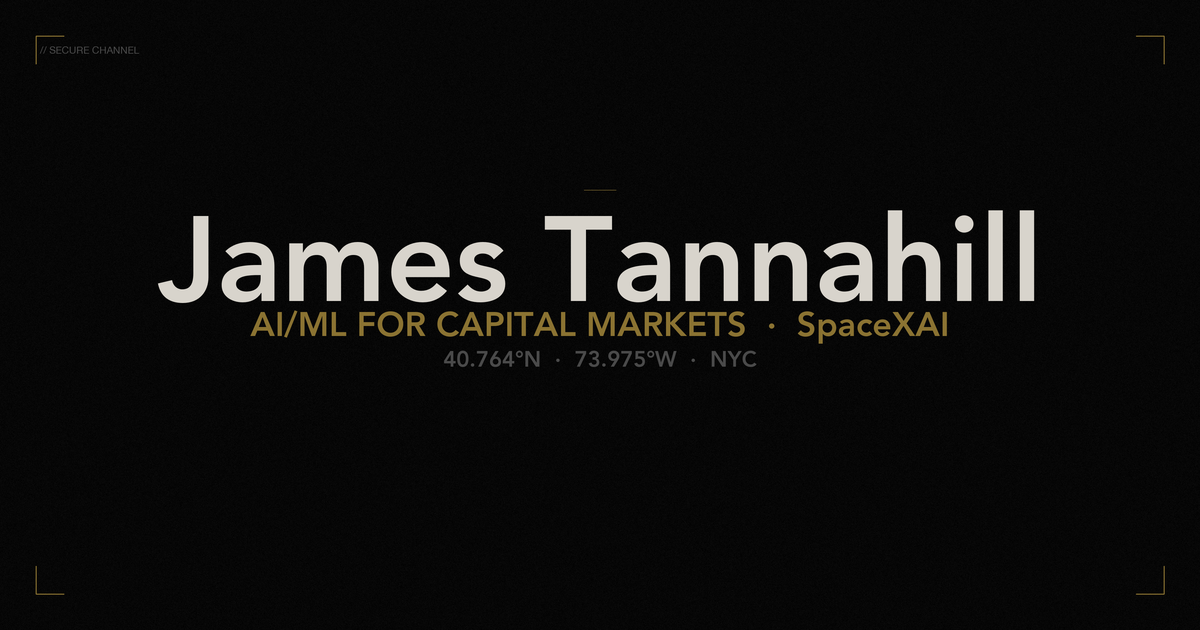
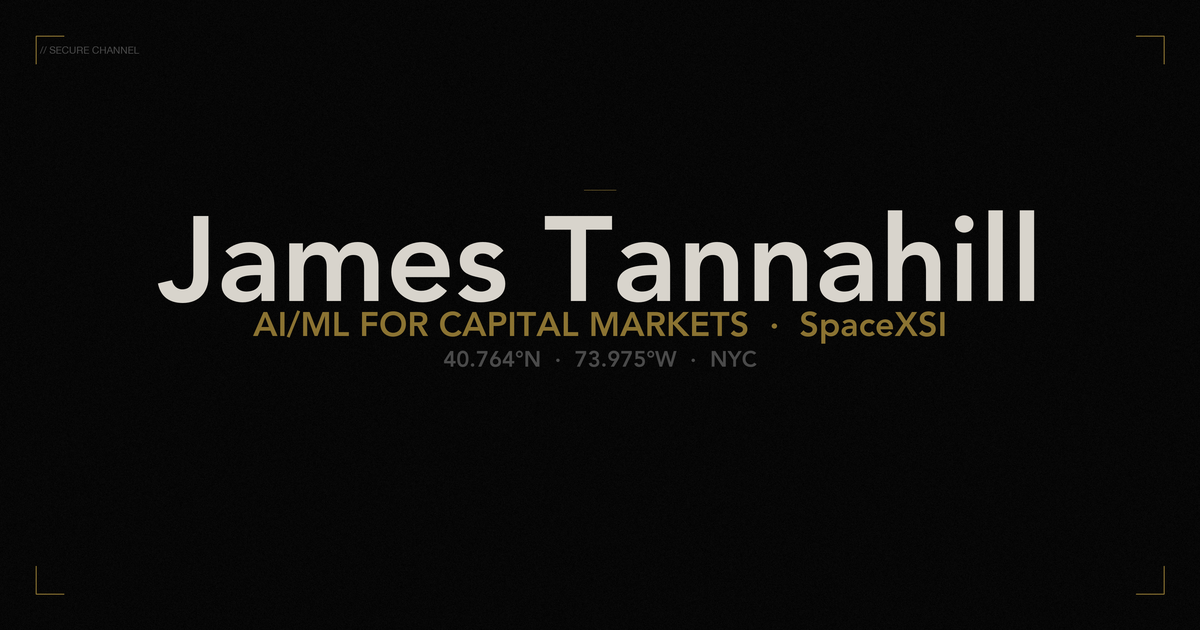
Employer name: SpaceXAI -> SpaceXSI on map + contact
Contact card (index/add/card.js MECARD/vCard/llms/manifest), map page,
regenerated OG image (og-image.png?v=3), sw CACHE jt-v7. Deployed to
both buckets, CloudFront invalidated. Wallet pass (pass-build/) not
changed yet: needs re-sign + device push.

Changed region(s): [[0.2158, 0.4825, 0.8017, 0.5429]]

diff --git a/index.html b/index.html
@@ -3,10 +3,10 @@
 <head>
   <meta charset="UTF-8">
   <meta name="viewport" content="width=device-width, initial-scale=1.0">
-  <title>James Tannahill | AI/ML for Capital Markets · SpaceXAI</title>
-  <meta name="description" content="James Tannahill. AI/ML for Capital Markets at SpaceXAI. Private Equity, Healthcare Intelligence, AI Infrastructure.">
-  <meta property="og:title" content="James Tannahill | AI/ML for Capital Markets · SpaceXAI">
-  <meta property="og:description" content="AI/ML for Capital Markets at SpaceXAI. Private Equity. Healthcare Intelligence. AI Infrastructure.">
+  <title>James Tannahill | AI/ML for Capital Markets · SpaceXSI</title>
+  <meta name="description" content="James Tannahill. AI/ML for Capital Markets at SpaceXSI. Private Equity, Healthcare Intelligence, AI Infrastructure.">
+  <meta property="og:title" content="James Tannahill | AI/ML for Capital Markets · SpaceXSI">
+  <meta property="og:description" content="AI/ML for Capital Markets at SpaceXSI. Private Equity. Healthcare Intelligence. AI Infrastructure.">
   <meta property="og:type" content="website">
   <meta property="og:url" content="https://contact.jamestannahill.com/">
   <meta property="og:image" content="https://contact.jamestannahill.com/og-image.png">
@@ -15,8 +15,8 @@
   <meta property="og:site_name" content="James Tannahill">
   <meta name="twitter:card" content="summary_large_image">
   <meta name="twitter:image" content="https://contact.jamestannahill.com/og-image.png">
-  <meta name="twitter:title" content="James Tannahill | AI/ML for Capital Markets · SpaceXAI">
-  <meta name="twitter:description" content="AI/ML for Capital Markets at SpaceXAI. Private Equity. Healthcare Intelligence. AI Infrastructure.">
+  <meta name="twitter:title" content="James Tannahill | AI/ML for Capital Markets · SpaceXSI">
+  <meta name="twitter:description" content="AI/ML for Capital Markets at SpaceXSI. Private Equity. Healthcare Intelligence. AI Infrastructure.">
   <meta name="robots" content="index, follow">
   <meta name="author" content="James Tannahill">
   <link rel="icon" type="image/svg+xml" href="/favicon.svg">
@@ -40,7 +40,7 @@
     "jobTitle": "AI/ML for Capital Markets",
     "worksFor": {
       "@type": "Organization",
-      "name": "SpaceXAI"
+      "name": "SpaceXSI"
     },
     "url": "https://www.jamestannahill.com",
     "sameAs": [
@@ -730,7 +730,7 @@
     <header class="header">
       <div class="header-tag">// secure channel</div>
       <h1 class="header-name">James Tannahill</h1>
-      <div class="header-title">AI/ML for Capital Markets &middot; SpaceXAI</div>
+      <div class="header-title">AI/ML for Capital Markets &middot; SpaceXSI</div>
       <a href="https://map.jamestannahill.com" class="header-coords">40.764&deg;N &middot; 73.975&deg;W &middot; NYC</a>
     </header>
 
@@ -1054,7 +1054,7 @@
 
   <script>
     // MECARD for QR (compact, universal iOS+Android)
-    const MECARD = 'MECARD:N:Tannahill,James;ORG:SpaceXAI;TITLE:AI/ML for Capital Markets;EMAIL:contact@jamestannahill.com;URL:https://www.jamestannahill.com;ADR:W 57th Street;NOTE:Signal preferred;;';
+    const MECARD = 'MECARD:N:Tannahill,James;ORG:SpaceXSI;TITLE:AI/ML for Capital Markets;EMAIL:contact@jamestannahill.com;URL:https://www.jamestannahill.com;ADR:W 57th Street;NOTE:Signal preferred;;';
 
     function revealSignal(el) {
       const rv = el.querySelector('.redacted-value');
@@ -1087,7 +1087,7 @@
         'N:Tannahill;James;;;',
         'FN:James Tannahill',
         'TITLE:AI/ML for Capital Markets',
-        'ORG:SpaceXAI',
+        'ORG:SpaceXSI',
         'EMAIL;TYPE=INTERNET:contact@jamestannahill.com',
         'URL:https://www.jamestannahill.com',
         'URL:https://hmuapi.com/jamestannahill',
@@ -1100,7 +1100,7 @@
         'URL:https://contact.jamestannahill.com',
         'URL:https://map.jamestannahill.com',
         'ADR;TYPE=WORK:;;W 57th Street;;;',
-        'NOTE:AI/ML for Capital Markets at SpaceXAI. President\\, Plocamium Holdings. Signal preferred.',
+        'NOTE:AI/ML for Capital Markets at SpaceXSI. President\\, Plocamium Holdings. Signal preferred.',
         'END:VCARD'
       ].join('\r\n');
 

diff --git a/contact.html b/contact.html
@@ -3,22 +3,22 @@
 <head>
   <meta charset="UTF-8">
   <meta name="viewport" content="width=device-width, initial-scale=1.0, viewport-fit=cover">
-  <title>James Tannahill | AI/ML for Capital Markets at SpaceXAI</title>
-  <meta name="description" content="James Tannahill. AI/ML for Capital Markets at SpaceXAI. Private Equity, Healthcare Intelligence, AI Infrastructure.">
-  <meta property="og:title" content="James Tannahill | AI/ML for Capital Markets at SpaceXAI">
-  <meta property="og:description" content="AI/ML for Capital Markets at SpaceXAI. Private Equity. Healthcare Intelligence. AI Infrastructure.">
+  <title>James Tannahill | AI/ML for Capital Markets at SpaceXSI</title>
+  <meta name="description" content="James Tannahill. AI/ML for Capital Markets at SpaceXSI. Private Equity, Healthcare Intelligence, AI Infrastructure.">
+  <meta property="og:title" content="James Tannahill | AI/ML for Capital Markets at SpaceXSI">
+  <meta property="og:description" content="AI/ML for Capital Markets at SpaceXSI. Private Equity. Healthcare Intelligence. AI Infrastructure.">
   <meta property="og:type" content="website">
   <meta property="og:url" content="https://contact.jamestannahill.com/">
-  <meta property="og:image" content="https://contact.jamestannahill.com/og-image.png?v=2">
+  <meta property="og:image" content="https://contact.jamestannahill.com/og-image.png?v=3">
   <meta property="og:image:width" content="1200">
   <meta property="og:image:height" content="630">
-  <meta property="og:image:alt" content="James Tannahill, AI/ML for Capital Markets at SpaceXAI">
+  <meta property="og:image:alt" content="James Tannahill, AI/ML for Capital Markets at SpaceXSI">
   <meta property="og:site_name" content="James Tannahill">
   <meta name="twitter:card" content="summary_large_image">
-  <meta name="twitter:image" content="https://contact.jamestannahill.com/og-image.png?v=2">
-  <meta name="twitter:image:alt" content="James Tannahill, AI/ML for Capital Markets at SpaceXAI">
-  <meta name="twitter:title" content="James Tannahill | AI/ML for Capital Markets at SpaceXAI">
-  <meta name="twitter:description" content="AI/ML for Capital Markets at SpaceXAI. Private Equity. Healthcare Intelligence. AI Infrastructure.">
+  <meta name="twitter:image" content="https://contact.jamestannahill.com/og-image.png?v=3">
+  <meta name="twitter:image:alt" content="James Tannahill, AI/ML for Capital Markets at SpaceXSI">
+  <meta name="twitter:title" content="James Tannahill | AI/ML for Capital Markets at SpaceXSI">
+  <meta name="twitter:description" content="AI/ML for Capital Markets at SpaceXSI. Private Equity. Healthcare Intelligence. AI Infrastructure.">
   <meta name="robots" content="noindex, nofollow">
   <meta name="author" content="James Tannahill">
   <link rel="icon" type="image/svg+xml" href="/favicon.svg">
@@ -40,8 +40,8 @@
     "@id": "https://jamestannahill.com/#person",
     "name": "James Tannahill",
     "jobTitle": "AI/ML for Capital Markets",
-    "worksFor": { "@type": "Organization", "name": "SpaceXAI" },
-    "description": "AI/ML for Capital Markets at SpaceXAI. Formerly President and Managing Partner, Plocamium Holdings.",
+    "worksFor": { "@type": "Organization", "name": "SpaceXSI" },
+    "description": "AI/ML for Capital Markets at SpaceXSI. Formerly President and Managing Partner, Plocamium Holdings.",
     "url": "https://jamestannahill.com",
     "sameAs": [
       "https://www.linkedin.com/in/jamesstannahill",
@@ -621,7 +621,7 @@
 
     <!-- HERO -->
     <header class="hero">
-      <div class="hero-eyebrow">AI/ML for Capital Markets · SpaceXAI</div>
+      <div class="hero-eyebrow">AI/ML for Capital Markets · SpaceXSI</div>
       <h1 class="hero-name">James<br>Tannahill</h1>
       <p class="hero-role">Operator · Investor · Builder<span class="hero-role-former">Formerly President and Managing Partner, Plocamium Holdings</span></p>
       <a href="https://map.jamestannahill.com" class="hero-coords" aria-label="W 57th Street, New York, NY, open map">W 57th Street · New York, NY<span class="link-arr" aria-hidden="true">→</span></a>

diff --git a/map/index.html b/map/index.html
@@ -4,24 +4,24 @@
   <meta charset="UTF-8">
   <meta name="viewport" content="width=device-width, initial-scale=1.0, viewport-fit=cover">
   <title>James Tannahill · New York</title>
-  <meta name="description" content="James Tannahill. AI/ML for Capital Markets at SpaceXAI. Private Equity, Healthcare Intelligence, AI Infrastructure. New York City.">
+  <meta name="description" content="James Tannahill. AI/ML for Capital Markets at SpaceXSI. Private Equity, Healthcare Intelligence, AI Infrastructure. New York City.">
   <meta property="og:title" content="James Tannahill · New York">
-  <meta property="og:description" content="AI/ML for Capital Markets at SpaceXAI. Private Equity. Healthcare Intelligence. AI Infrastructure.">
+  <meta property="og:description" content="AI/ML for Capital Markets at SpaceXSI. Private Equity. Healthcare Intelligence. AI Infrastructure.">
   <meta property="og:type" content="website">
   <meta property="og:url" content="https://map.jamestannahill.com/">
-  <meta property="og:image" content="https://map.jamestannahill.com/og-image.png?v=2">
+  <meta property="og:image" content="https://map.jamestannahill.com/og-image.png?v=3">
   <meta property="og:image:width" content="1200">
   <meta property="og:image:height" content="630">
-  <meta property="og:image:alt" content="James Tannahill. AI/ML for Capital Markets at SpaceXAI. 40.764°N, 73.975°W, NYC.">
+  <meta property="og:image:alt" content="James Tannahill. AI/ML for Capital Markets at SpaceXSI. 40.764°N, 73.975°W, NYC.">
   <meta property="og:site_name" content="James Tannahill">
   <meta name="theme-color" content="#0A0A0A">
   <meta name="color-scheme" content="dark">
   <link rel="manifest" href="/manifest.json">
   <meta name="twitter:card" content="summary_large_image">
-  <meta name="twitter:image" content="https://map.jamestannahill.com/og-image.png?v=2">
-  <meta name="twitter:image:alt" content="James Tannahill. AI/ML for Capital Markets at SpaceXAI. 40.764°N, 73.975°W, NYC.">
+  <meta name="twitter:image" content="https://map.jamestannahill.com/og-image.png?v=3">
+  <meta name="twitter:image:alt" content="James Tannahill. AI/ML for Capital Markets at SpaceXSI. 40.764°N, 73.975°W, NYC.">
   <meta name="twitter:title" content="James Tannahill · New York">
-  <meta name="twitter:description" content="AI/ML for Capital Markets at SpaceXAI. Private Equity. Healthcare Intelligence. AI Infrastructure.">
+  <meta name="twitter:description" content="AI/ML for Capital Markets at SpaceXSI. Private Equity. Healthcare Intelligence. AI Infrastructure.">
   <meta name="robots" content="index, follow">
   <meta name="author" content="James Tannahill">
   <link rel="icon" type="image/png" href="/favicon.png">
@@ -60,8 +60,8 @@
     "name": "James Tannahill",
     "url": "https://jamestannahill.com",
     "jobTitle": "AI/ML for Capital Markets",
-    "worksFor": { "@type": "Organization", "name": "SpaceXAI" },
-    "description": "AI/ML for Capital Markets at SpaceXAI. Formerly President and Managing Partner, Plocamium Holdings."
+    "worksFor": { "@type": "Organization", "name": "SpaceXSI" },
+    "description": "AI/ML for Capital Markets at SpaceXSI. Formerly President and Managing Partner, Plocamium Holdings."
     }
     ]
   }

diff --git a/card.js b/card.js
@@ -152,7 +152,7 @@
   document.getElementById('saveContact')?.addEventListener('click', () => showToast('Contact card downloaded'));
 
   // ── QR ────────────────────────────────────────────────────────────────
-  const MECARD = 'MECARD:N:Tannahill,James;ORG:SpaceXAI;TITLE:AI/ML for Capital Markets;EMAIL:contact@jamestannahill.com;URL:https://jamestannahill.com;ADR:W 57th Street\\, New York\\, NY;NOTE:Signal preferred;;';
+  const MECARD = 'MECARD:N:Tannahill,James;ORG:SpaceXSI;TITLE:AI/ML for Capital Markets;EMAIL:contact@jamestannahill.com;URL:https://jamestannahill.com;ADR:W 57th Street\\, New York\\, NY;NOTE:Signal preferred;;';
 
   // Draw on whole device pixels: each module is an integer number of
   // physical pixels and the CSS size matches the bitmap exactly, so the

diff --git a/add.html b/add.html
@@ -221,7 +221,7 @@
   <div class="card">
     <div class="tag">wallet pass</div>
     <div class="name">James Tannahill</div>
-    <div class="title">AI/ML for Capital Markets &middot; SpaceXAI</div>
+    <div class="title">AI/ML for Capital Markets &middot; SpaceXSI</div>
     <div class="divider"></div>
 
     <!-- iOS Safari: direct wallet add -->

diff --git a/sw.js b/sw.js
@@ -2,7 +2,7 @@
 // Pages are network-first (a role or title change shows on the next visit);
 // static assets are cache-first. Bump CACHE on every deploy.
 
-const CACHE = 'jt-v6';
+const CACHE = 'jt-v7';
 const PRECACHE = [
   '/',
   '/card.js',

diff --git a/generate-og.py b/generate-og.py
@@ -58,8 +58,8 @@ draw.text(
     font=font_name,
 )
 
-# --- "AI/ML FOR CAPITAL MARKETS · SpaceXAI" ---
-subtitle_text = "AI/ML FOR CAPITAL MARKETS  ·  SpaceXAI"
+# --- "AI/ML FOR CAPITAL MARKETS · SpaceXSI" ---
+subtitle_text = "AI/ML FOR CAPITAL MARKETS  ·  SpaceXSI"
 subtitle_bbox = draw.textbbox((0, 0), subtitle_text, font=font_subtitle)
 subtitle_w = subtitle_bbox[2] - subtitle_bbox[0]
 draw.text(

diff --git a/README.md b/README.md
@@ -19,7 +19,7 @@ Dark Mapbox GL JS map centered on W 57th Street, Manhattan. Marker with popup at
 Neither subdomain ships analytics. The GA4 tag (`G-WRDEHD4QYL`, shared with apex `jamestannahill.com`) was removed from both pages on 2026-09-17: it loaded unconditionally, with none of the consent gating the apex applies, and `localStorage` consent does not cross origins. The footer still includes a "privacy" link pointing at the apex policy (`https://www.jamestannahill.com/privacy`).
 
 ### `contact.jamestannahill.com`
-Bloomberg editorial digital business card (redesigned Apr 2026). JetBrains Mono. White/black/red palette: black topbar with `#e01a1a` red rule, white body, 3-cell data strip (SpaceXAI / NYC / PE·HC).
+Bloomberg editorial digital business card (redesigned Apr 2026). JetBrains Mono. White/black/red palette: black topbar with `#e01a1a` red rule, white body, 3-cell data strip (SpaceXSI / NYC / PE·HC).
 
 **Features:**
 - Contact links: Email (featured, red left border), Signal (redacted/tap-to-reveal), WhatsApp (redacted/tap-to-reveal), LinkedIn, GitHub, Bloomberg Terminal Profile, Art

diff --git a/DESIGN.md b/DESIGN.md
@@ -73,7 +73,7 @@ Scope: this document governs the contact card only (`contact.html`). The reposit
 - Toast: `ink` bar with a red top rule, bottom-centered, `role="status"` with polite live announcements, auto-dismissed after 2.5s. Use it as the single feedback channel for copy, share, download, and push state.
 - Focus: every focusable element shows `:focus-visible { outline: 2px solid var(--ink); outline-offset: -2px; }`.
 - Link row dividers are 1px `rule` on every row except the last row of `#links`.
-- Former roles are marked with a `venture-flag` ("Former") next to the venture name. Plocamium Holdings is a former role; the current role is AI/ML for Capital Markets at SpaceXAI.
+- Former roles are marked with a `venture-flag` ("Former") next to the venture name. Plocamium Holdings is a former role; the current role is AI/ML for Capital Markets at SpaceXSI.
 - Hover states apply only under `(hover: hover) and (pointer: fine)`; touch devices get `:active` feedback instead. Keep new hover rules inside that query.
 
 ## Do's and Don'ts
